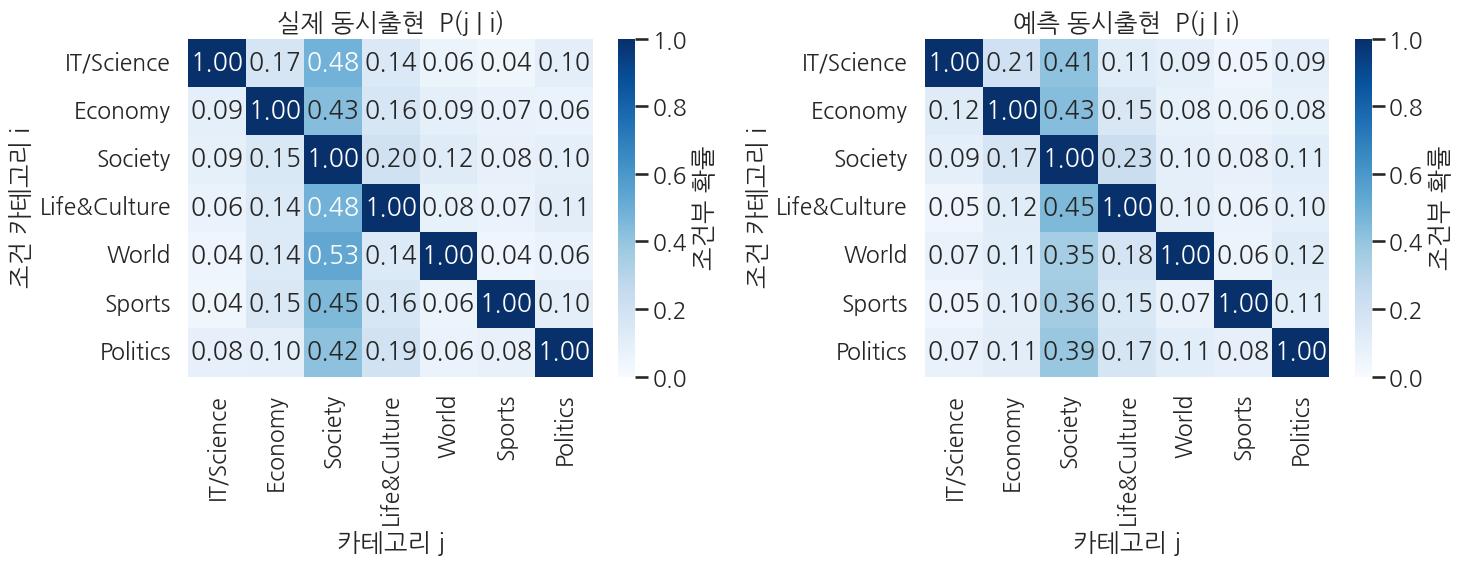
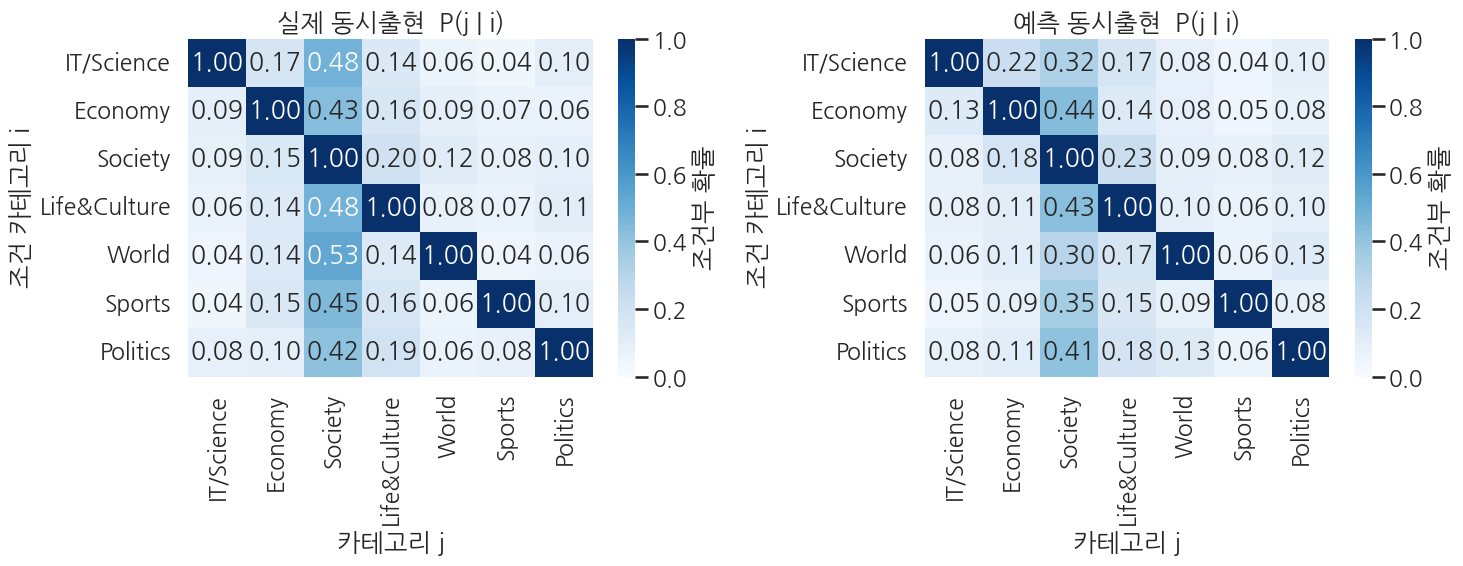
Ch 17 tex 재생성 — 새 실행본·#229~#233 반영 + #234 \ref 나열 손수정 (검수 2026-09)
- notebook_to_tex(pandoc 2.19.2) 재생성. #228 시드 줄·#229 재작성 서술·새 실측 반영
- 부수 정리: λ 인라인 코드 \texttt→\inlinecode, 코드 주석 →→'->' (#172 도구
  표준화가 ch17 에 처음 적용된 차이 — 사전 검증에서 확인)
- #234: \ref{ch:15}--\ref{ch:18}장 손수정 (재생성 시 재발 주의, #160 동일)

Claude-Session: https://claude.ai/code/session_0176E2yhrp7xBC9jX4y4GbVk

diff --git a/book/chapters/ch17_ko_multilabel.tex b/book/chapters/ch17_ko_multilabel.tex
@@ -103,7 +103,7 @@ Ch & 모델 & 토크나이저 & 데이터 & Output Head & Activation & Loss \\
 15 & klue/bert-base & WordPiece (한국어) & NSMC binary & \inlinecode{Linear(H,\ 2)} & softmax & \inlinecode{CrossEntropyLoss} \\
 16 & klue/bert-base & 같음 & KLUE-YNAT (뉴스 7분류) & \inlinecode{Linear(H,\ 7)} & softmax & \inlinecode{CrossEntropyLoss} \\
 \textbf{17 \(\leftarrow\) 여기} & klue/bert-base & 같음 & \textbf{KLUE-YNAT 합성 multi-label (두 헤드라인 결합)} & \inlinecode{Linear(H,\ 7)} & \textbf{sigmoid (per-label)} & \textbf{\inlinecode{BCEWithLogitsLoss} (per-label)} \\
-18 (다음) & klue/bert-base & 같음 & KLUE-YNAT 합성 multi-label + 라벨 개수 보조 & \inlinecode{Linear(H,\ 7)} 메인 + \inlinecode{Linear(H,\ 1)} 보조 & sigmoid + 없음 & \texttt{BCE(per-label)\ +\ λ·MSE} \\
+18 (다음) & klue/bert-base & 같음 & KLUE-YNAT 합성 multi-label + 라벨 개수 보조 & \inlinecode{Linear(H,\ 7)} 메인 + \inlinecode{Linear(H,\ 1)} 보조 & sigmoid + 없음 & \inlinecode{BCE(per-label)\ +\ λ·MSE} \\
 \bottomrule
 \end{tabular}
 \end{adjustbox}
@@ -205,11 +205,11 @@ L_{\text{BCE}} = -\frac{1}{N \cdot K}\sum_{i=1}^{N}\sum_{k=1}^{K}\left[ y_{i,k} 
 \begin{lstlisting}
 out["labels"] = [int(l) for l in batch["label"]]
 problem_type = "single_label_classification"
-# → CrossEntropyLoss
+# -> CrossEntropyLoss
 
 out["labels"] = [list(map(float, mh)) for mh in batch["multi_hot"]]
 problem_type = "multi_label_classification"
-# → BCEWithLogitsLoss per-label
+# -> BCEWithLogitsLoss per-label
 \end{lstlisting}
 
 \subsection{왜 multi-label 은 softmax 로 풀 수 없는가}
@@ -235,7 +235,7 @@ softmax 는 출력의 \emph{합 = 1} 을 강제합니다 (\(\sum_k \mathrm{softm
 \ref{ch:16}장과 \emph{완전히 동일} --- \inlinecode{klue/bert-base} 한국어 WordPiece. 토크나이저는 라벨 \emph{형식} (int 스칼라든 multi-hot 벡터든) 에 무관하므로 변화 없음.
 
 \begin{quote}
-\textbf{Phase 2 안에서는 토크나이저 고정} --- \ref{ch:15}·\ref{ch:16}장·17·18 모두 같은 한국어 WordPiece. Phase 3 (\ref{ch:19}--\ref{ch:23}장) 에서 비로소 \emph{직접 학습한 워드레벨 토크나이저} 가 등장.
+\textbf{Phase 2 안에서는 토크나이저 고정} --- \ref{ch:15}--\ref{ch:18}장 모두 같은 한국어 WordPiece. Phase 3 의 첫 장(\ref{ch:19}장)에서 비로소 \emph{토크나이저를 직접 학습} 해 WordPiece 와 WordLevel 을 비교하고, \ref{ch:20}--\ref{ch:23}장의 사전학습은 다시 기성 WordPiece 토크나이저를 가져와 씁니다.
 \end{quote}
 
 \subsection{결합 헤드라인 토큰화 예시}
@@ -423,6 +423,7 @@ First sample label: [0.0, 1.0, 0.0, 1.0, 0.0, 0.0, 0.0] (length-7 multi-hot...
 
 \Needspace{11\baselineskip}
 \begin{lstlisting}
+torch.manual_seed(SEED); np.random.seed(SEED)
 model = AutoModelForSequenceClassification.from_pretrained(
     "klue/bert-base",
     num_labels=K,
@@ -441,7 +442,7 @@ def param_summary(m):
 \noindent\emph{앞뒤 블록은 모두 앞에서 만든 중간 값을 다음 계산으로 넘기는 단계입니다. 길이를 나누어 같은 흐름을 단계별로 확인합니다.}
 
 \Needspace{11\baselineskip}
-\begin{lstlisting}[firstnumber=14]
+\begin{lstlisting}[firstnumber=15]
 total, trainable = param_summary(model)
 print(
     f"Parameters:           {total:>13,}  ("
@@ -461,6 +462,7 @@ print(f"id2label:             {model.config.id2label}")
 
 \noindent\textbf{출력.}
 \begin{bookoutputbox}
+model.safetensors: downloading bytes:           |  0.00B
 Key                                        | Status     | 
 -------------------------------------------+------------+-
 classifier.bias                            | MISSING    | 
@@ -606,18 +608,18 @@ print(classification_report(
 \begin{bookoutputbox}
 precision    recall  f1-score   support
 
-  IT/Science     0.7634    0.7937    0.7782       126
-     Economy     0.8428    0.8109    0.8266       238
-     Society     0.9267    0.7953    0.8560       684
-Life&Culture     0.8261    0.8885    0.8562       278
-       World     0.8704    0.8868    0.8785       159
-      Sports     0.8880    0.9487    0.9174       117
-    Politics     0.7941    0.8654    0.8282       156
+  IT/Science     0.7537    0.8016    0.7769       126
+     Economy     0.8253    0.7941    0.8094       238
+     Society     0.9184    0.7573    0.8301       684
+Life&Culture     0.8294    0.8921    0.8596       278
+       World     0.8647    0.9245    0.8936       159
+      Sports     0.9032    0.9573    0.9295       117
+    Politics     0.8160    0.8526    0.8339       156
 
-   micro avg     0.8638    0.8367    0.8500      1758
-   macro avg     0.8445    0.8556    0.8487      1758
-weighted avg     0.8683    0.8367    0.8501      1758
- samples avg     0.8820    0.8535    0.8485      1758
+   micro avg     0.8604    0.8237    0.8416      1758
+   macro avg     0.8444    0.8542    0.8476      1758
+weighted avg     0.8650    0.8237    0.8409      1758
+ samples avg     0.8825    0.8425    0.8408      1758
 \end{bookoutputbox}
 \par\vspace{0.9em}
 
@@ -647,7 +649,7 @@ weighted avg     0.8683    0.8367    0.8501      1758
 \item
   \textbf{잘 학습된 카테고리} (예: 스포츠): label=0 곡선은 0 근처, label=1 곡선은 1 근처에 있고 둘이 거의 만나지 않음. \emph{분리가 깨끗}.
 \item
-  \textbf{혼동하는 카테고리} (예: 사회 \(\leftrightarrow\) 생활문화 \(\leftrightarrow\) 정치): 두 곡선이 0.5 근처에서 크게 겹침. 결합 헤드라인 안에서 두 주제 신호가 \emph{섞이는} 카테고리.
+  \textbf{혼동하는 카테고리} (예: 사회, IT과학): 두 곡선이 겹치거나 label=1 곡선이 넓게 퍼짐. 사회는 eval 활성률이 높아 온갖 결합에 섞이고, IT과학은 per-label F1 이 가장 낮은 카테고리 --- 결합 헤드라인 안에서 두 주제 신호가 \emph{섞일} 때 약해지는 지점.
 \item
   \textbf{결합의 부작용} --- 한 샘플에 \emph{두 헤드라인} 이 들어가니 모델이 “둘 중 어느 쪽 신호가 어느 라벨인지” 분리해야 합니다. 이게 단일 헤드라인 (\ref{ch:16}장) 보다 어려운 점이고, multi-label task 의 자연스러운 난이도.
 \end{itemize}
@@ -656,7 +658,7 @@ weighted avg     0.8683    0.8367    0.8501      1758
 
 \subsection{카테고리 간 공동 활성 패턴}
 
-Multi-label 의 핵심 질문: \emph{어떤 카테고리 쌍이 같이 등장하는가?} 합성 방식이 \emph{무작위 결합} 이라 true co-occurrence 는 거의 균등에 가까워야 하고, 모델 예측이 그 패턴을 따라가는지 확인합니다.
+Multi-label 의 핵심 질문: \emph{어떤 카테고리 쌍이 같이 등장하는가?} 합성이 \emph{무작위 결합} 이라 특정 \emph{의미 쌍} 의 상관은 없지만, P(j \textbar{} i) 는 \emph{상대 카테고리 j 의 활성률에 비례} 합니다 --- eval 합성의 원천인 validation split 이 사회 쏠림이라 \textbf{사회 열이 뚜렷하게 높게} 나옵니다. 모델 예측이 이 패턴을 따라가는지 확인합니다.
 
 \inlinecode{true\ co-occurrence} (실제 합성 라벨의 동시 등장) 와 \inlinecode{predicted\ co-occurrence} (모델 예측의 동시 등장) 를 나란히 그립니다.
 
@@ -682,7 +684,9 @@ Multi-label 의 핵심 질문: \emph{어떤 카테고리 쌍이 같이 등장하
 \item
   \textbf{off-diagonal cell M{[}i, j{]}} = “카테고리 i 가 활성된 샘플 중 카테고리 j 도 활성된 비율”.
 \item
-  \textbf{합성이 무작위 결합} 이라 true 행렬의 off-diagonal 은 \emph{대략 균등} (각 카테고리의 전체 활성률에 비례) --- 특정 쌍이 \emph{유난히 높지 않음}. 실제 사람-annotated 데이터라면 “정치+경제” 처럼 \emph{자연스러운 상관} 이 드러나겠지만, 여기선 합성 방식 때문에 그런 구조가 약합니다.
+  \textbf{무작위 결합의 구조} --- off-diagonal 은 \emph{균등이 아니라} 상대 카테고리 j 의 \textbf{활성률에 비례}합니다. 위 행렬에서 사회 열(0.4-0.5 대)이 다른 열(0.05-0.2)보다 뚜렷하게 높은 이유 --- eval 합성의 원천인 KLUE-YNAT validation split 은 사회 비중이 높아(활성 684/1000) 어떤 카테고리와 짝지어도 상대가 사회일 확률이 큽니다. train(사회 활성 21.8\%)과 분포가 다르다는 점도 함께 봐 두세요.
+\item
+  \textbf{의미 상관은 없음} --- 실제 사람-annotated 데이터라면 “정치+경제” 처럼 \emph{자연스러운 의미 상관} 이 행렬에 드러나겠지만, 무작위 결합에는 그런 구조가 없습니다. 여기 보이는 쏠림은 순전히 \emph{분포} 의 산물입니다.
 \item
   \textbf{predicted cell 이 true 보다 일관되게 높으면} \(\to\) 모델이 라벨을 \emph{너무 많이} 활성하는 경향 (over-prediction). threshold 를 0.5 보다 높게 두면 calibration 개선.
 \end{itemize}
@@ -840,7 +844,7 @@ for label_kind, idx in samples:
 \item
   두 헤드라인을 \texttt{{[}SEP{]}} 로 잇는 합성 방식에서, 모델이 \emph{두 주제를 모두 잡지 못하고 하나만 잡는} 경우는 왜 생기나요?
 \item
-  카테고리 간 공동 활성 행렬에서 \emph{무작위 결합} 합성이라 true co-occurrence 가 거의 균등에 가까운데, 실제 사람-annotated multi-label 데이터라면 이 행렬이 어떻게 달라질까요?
+  카테고리 간 공동 활성 행렬에서 \emph{무작위 결합} 합성인데도 true co-occurrence 의 \emph{사회 열} 이 유난히 높습니다. 왜일까요? 실제 사람-annotated multi-label 데이터라면 이 행렬이 어떻게 달라질까요?
 \end{enumerate}
 
 
@@ -954,9 +958,9 @@ def tokenize_wrong(batch):
 \item
   메인 task: \ref{ch:17}장의 multi-label 카테고리 분류 (\inlinecode{num\_labels=7} + BCE per-label) --- \emph{완전히 동일}
 \item
-  추가: \emph{보조 헤드} \inlinecode{Linear(H,\ 1)} 로 \emph{활성 라벨 개수} 를 회귀 (결합한 헤드라인이 몇 개 카테고리에 걸치는가, 정규화 0-1)
+  추가: \emph{보조 헤드} \inlinecode{Linear(H,\ 1)} 로 \emph{활성 라벨 개수} 를 회귀 (결합한 헤드라인이 몇 개 카테고리에 걸치는가 --- 1 또는 2 를 그대로 회귀)
 \item
-  손실: \texttt{L\ =\ BCE\_per\_label(메인)\ +\ λ\ ·\ MSE(보조)} 가중합 (\(\lambda\) 는 hyperparameter)
+  손실: \inlinecode{L\ =\ BCE\_per\_label(메인)\ +\ λ\ ·\ MSE(보조)} 가중합 (\(\lambda\) 는 hyperparameter)
 \item
   \inlinecode{Trainer.compute\_loss} 오버라이드로 두 헤드를 동시 학습
 \item
